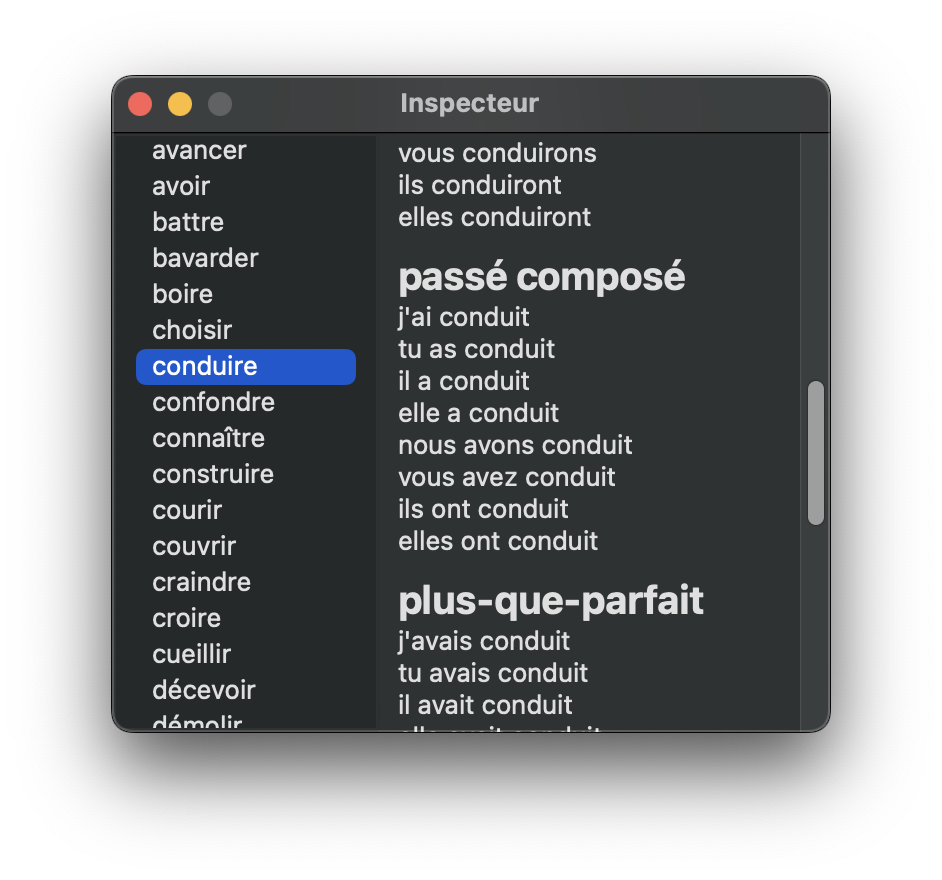
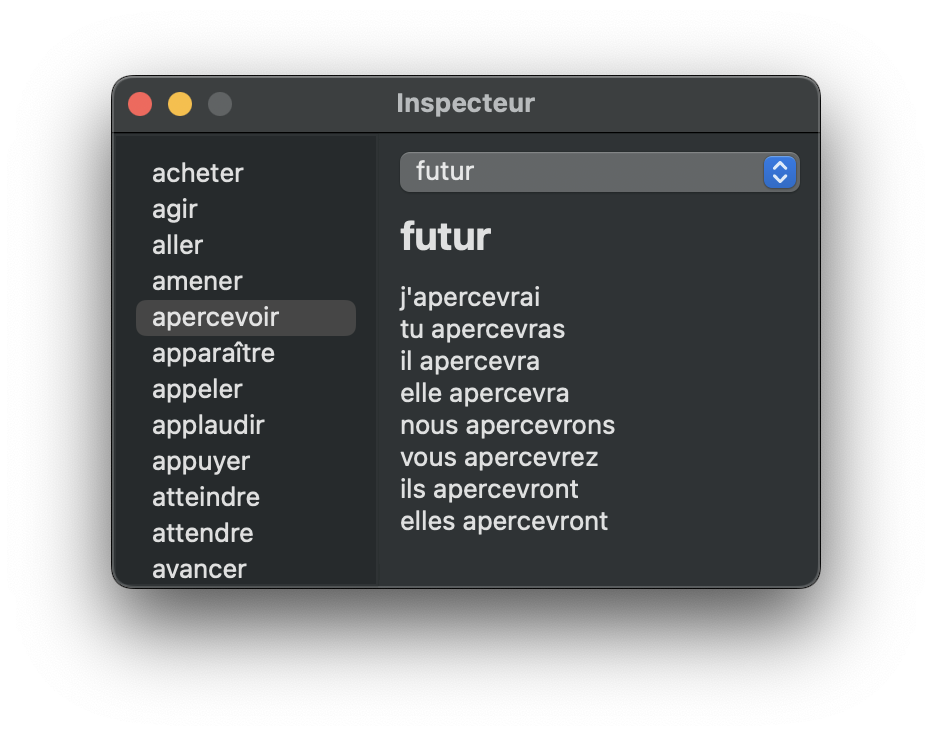
Update preview picture of inspecteur

Changed region(s): [[0.0933, 0.0625, 0.9024, 0.9062]]

diff --git a/README.md b/README.md
@@ -104,7 +104,7 @@ _Note: `Ctrl` corresponds to `Cmd` on macOS systems_
 
 ### Inspector
 
-<div align=center><img src="./resources/preview-inspector.png" width=400 height=373.67></div>
+<div align=center><img src="./resources/preview-inspector.png" width=400 height=315.88></div>
 
 There is also an additional window, called **Inspecteur**, which can be used to display the whole conjugation of a verb. This window is primarily intended to be used by proofreaders who, by using the **Inspecteur**, can view the entirety of the database used by the app and therefore find mistakes (of which I'm sure there are plenty) faster than by simply using the app. The **Inspecteur** can of course also be used to help out while learning the conjugations.
 
